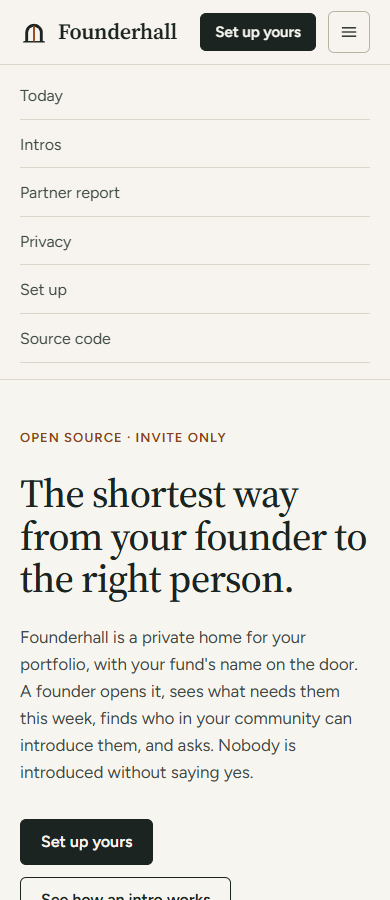
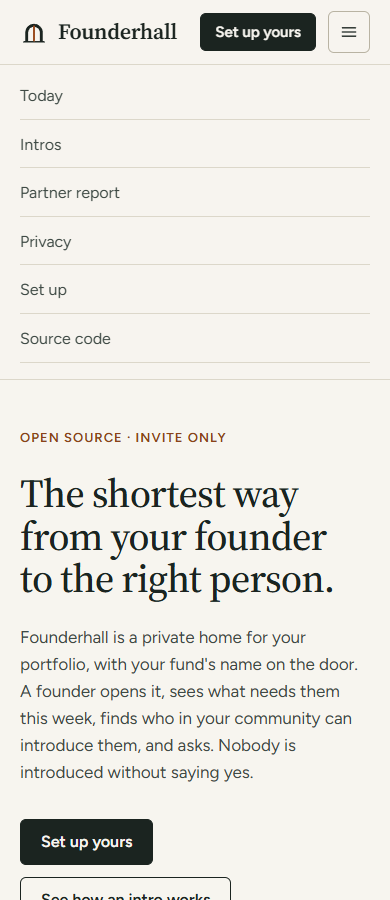
Site: match the app's own wording, fix 320 px and print
Report sketch uses the app's rows; Today, intro email, stop-all, weekly
email and credit claims now say exactly what the app does. Header fits at
320 px; print hides buttons and opens every answer.

Changed region(s): [[0.0615, 0.6222, 0.8308, 0.6844], [0.8615, 0.5911, 0.9538, 0.6222]]

diff --git a/site/index.html b/site/index.html
@@ -77,7 +77,7 @@
         <div class="mock-bar"><span class="fund-tile">N</span><span class="mock-fund">Northwind Founders</span></div>
         <div>
           <p class="mock-title">Good to see you, Sam.</p>
-          <p class="mock-sub">Two things need you this week.</p>
+          <p class="mock-sub">Here's what needs you this week.</p>
         </div>
         <div class="mock-group">
           <h4>Asks you could help with</h4>
@@ -85,7 +85,7 @@
         </div>
         <div class="mock-group">
           <h4>Waiting on you</h4>
-          <p class="mock-row"><span class="avatar">JB</span><span>Jonas Berg asked you for an intro to a hospital buyer you know.<small>Read the note, then say yes or pass.</small></span><span class="mock-action">Open</span></p>
+          <p class="mock-row"><span class="avatar">JB</span><span>Jonas Berg asked you for an intro to a hospital buyer you know.<small>Read the note, then say yes or pass.</small></span><span class="mock-action">Review Jonas's intro request</span></p>
         </div>
         <div class="mock-group">
           <h4>New this week</h4>
@@ -106,7 +106,7 @@
     </div>
     <ul class="rule-list">
       <li><h3>Invite only</h3><p>Only people you invite get in. Each link is personal, works once and lasts 14 days. Invite one person, or many from a pasted list or a CSV.</p></li>
-      <li><h3>Search the shared networks</h3><p>A founder searches their own network and the ones other members share. Community members come first, with Village's own words for how each one knows the person.</p></li>
+      <li><h3>Search the shared networks</h3><p>A founder searches their own network and the ones other members share. Community members come first, with a plain-words reason for how each one knows the person.</p></li>
       <li><h3>One ask reaches the people who can help</h3><p>When a founder posts an ask, the members on a path to the person it names, and up to 5 whose "can help with" matches, each get one email. They can offer an intro or answer.</p></li>
       <li><h3>A directory that fills itself in</h3><p>Filter members by stage, sector, cohort and how recently their card was updated. Cards can fill in from public work profiles once you record what allows it; a member's own words always win.</p></li>
     </ul>
@@ -139,7 +139,7 @@
         </div>
       </div>
       <ul class="rule-list">
-        <li><h3>A weekly email, not a firehose</h3><p>One email a week with what needs them, on the day and hour you choose. A founder with nothing to answer gets nothing. Each item has a button, and with reply set up they can answer by replying.</p></li>
+        <li><h3>A weekly email, not a firehose</h3><p>One email a week with what needs them, on the day and hour you choose. A founder with nothing to answer gets nothing. Asks and intro requests in it have buttons, and with reply set up they can answer by replying.</p></li>
         <li><h3>Sign in from the email</h3><p>With email on, a founder asks for a sign-in link: one button, one use, 15 minutes. A password works too.</p></li>
         <li><h3>Notices they can turn off</h3><p>Intros, messages, asks and the weekly email each send their own notices, each with one-click unsubscribe and a switch on the member's card.</p></li>
         <li><h3>Made for phones too</h3><p>On a small screen the app swaps its sidebar for a tab bar at the bottom.</p></li>
@@ -159,7 +159,7 @@
     <ol class="steps">
       <li><span class="step-number">1</span><h3>Sam asks, with a short note</h3><p>From the path to Alex, Sam asks Priya, the member who knows them. Alex hears nothing yet.</p></li>
       <li><span class="step-number">2</span><h3>Priya decides</h3><p>Yes, or pass. A pass is private, and a reason, if she gives one, stays with her.</p></li>
-      <li><span class="step-number">3</span><h3>Alex decides</h3><p>Priya forwards a private link, or the app emails it once. One page, no account: yes, no thanks, or stop all intro requests.</p></li>
+      <li><span class="step-number">3</span><h3>Alex decides</h3><p>Priya forwards a private link, or has the app email it. One page, no account: yes, no thanks, or stop all intro requests.</p></li>
       <li><span class="step-number">4</span><h3>One message joins them</h3><p>The ask closes as introduced. Two weeks later Sam is asked whether it helped.</p></li>
     </ol>
     <p class="yes-line"><svg viewBox="0 0 24 24" fill="none" stroke="currentColor" stroke-width="1.8" stroke-linecap="round" stroke-linejoin="round" aria-hidden="true"><path d="M5 12.5l4.5 4.5L19 7.5"/></svg>Nobody is introduced without saying yes.</p>
@@ -170,7 +170,7 @@
         <li><b>Nobody gets chased forever.</b> An ask nobody answers closes by itself after 14 days. If the app emailed Alex the link, one reminder goes 4 days later, and that's the only one.</li>
         <li><b>The giving side is protected.</b> Each founder has a weekly allowance of asks, 5 by default, and a connector gets at most 10 intro asks a week. A declined ask gives its place back.</li>
         <li><b>Alex's yes can't be faked by a link preview.</b> Opening the page changes nothing; only a button press answers it. The link works once and closes with the ask.</li>
-        <li><b>Stop means stop.</b> "Stop all intro requests" closes every open ask for Alex and holds back future ones.</li>
+        <li><b>Stop means stop.</b> "Stop all intro requests" closes the asks waiting on Alex's answer, and holds back new ones.</li>
       </ul>
       <figure>
         <div class="sheet consent" aria-hidden="true">
@@ -200,39 +200,45 @@
         <p class="lede">The asks your founders make become a report your partners can read: asked, each side's yes, introduced, declined, expired, and whether it helped.</p>
       </div>
       <ul class="rule-list">
-        <li><h3>Nothing to fill in</h3><p>Every step of every intro is counted as it happens. Pick this quarter so far, last quarter, or since launch.</p></li>
-        <li><h3>The no's are shown too</h3><p>Declines and expiries sit beside the yeses, and expiries are split by who never answered. A count that only goes up teaches the wrong habits.</p></li>
+        <li><h3>Nothing to fill in</h3><p>Every step of every intro is counted as it happens. This quarter so far, last quarter and since launch sit side by side.</p></li>
+        <li><h3>The no's are shown too</h3><p>Declines, expiries and withdrawals sit beside the yeses, each split by who said no or never answered. A count that only goes up teaches the wrong habits.</p></li>
         <li><h3>Counts, not gossip</h3><p>Admins see totals, never who asked whom. A connector is named only if they turned on "Credit me in reports".</p></li>
         <li><h3>Print it, download it, send it</h3><p>Print the page, download a CSV, or email it to up to 20 partners. Sending your first report is the last step of setup.</p></li>
       </ul>
     </div>
     <figure>
       <div class="sheet report" aria-hidden="true">
-        <div class="mock-bar"><span class="fund-tile">N</span><span class="mock-fund">Partner report · this quarter so far</span></div>
-        <p class="report-summary">42 intros asked, 24 made, 9 declined.</p>
+        <div class="mock-bar"><span class="fund-tile">N</span><span class="mock-fund">Northwind Founders</span></div>
+        <p class="report-summary">Partner report</p>
         <table class="report-table">
+          <thead><tr><th>Intros</th><td>This quarter so far</td></tr></thead>
           <tbody>
-            <tr><th>Asked</th><td>42</td></tr>
+            <tr><th>Asked for</th><td>42</td></tr>
             <tr><th>Connector said yes</th><td>31</td></tr>
             <tr><th>Person asked for said yes</th><td>26</td></tr>
             <tr><th>Introduced</th><td>24</td></tr>
-            <tr><th>Declined<small>A normal, respected answer</small></th><td>9</td></tr>
-            <tr><th>Expired<small>Split by who never answered</small></th><td>6</td></tr>
-            <tr><th>Still open</th><td>3</td></tr>
-            <tr><th>Said it helped<small>17 of the 22 who answered</small></th><td>77%</td></tr>
+            <tr><th>Declined by the connector</th><td>5</td></tr>
+            <tr><th>Declined by the person asked for</th><td>4</td></tr>
+            <tr><th>Expired, connector never answered<small>Not a decline.</small></th><td>3</td></tr>
+            <tr><th>Expired, person asked for never answered<small>Not a decline.</small></th><td>2</td></tr>
+            <tr><th>Expired before the connector made the intro<small>Not a decline.</small></th><td>1</td></tr>
+            <tr><th>Withdrawn by the member who asked</th><td>1</td></tr>
+            <tr><th>Still open</th><td>2</td></tr>
+            <tr><th>Said it helped<small>Of the members who answered yes or no.</small></th><td>77%</td></tr>
           </tbody>
         </table>
         <table class="report-table">
+          <thead><tr><th>Top connectors</th><td></td></tr></thead>
           <tbody>
-            <tr><th>Top connectors<small>Only members who asked to be credited</small></th><td></td></tr>
             <tr><th>Priya Shah</th><td>6</td></tr>
             <tr><th>Daniel Okafor</th><td>4</td></tr>
-            <tr><th>Everyone else</th><td>14</td></tr>
+            <tr><th>Other connectors, not named</th><td>9</td></tr>
+            <tr><th>Intros made by them</th><td>14</td></tr>
           </tbody>
         </table>
         <div class="report-actions"><span>Print</span><span>Download CSV</span><span>Send to partners</span></div>
       </div>
-      <figcaption class="caption">Made-up numbers for a made-up fund.</figcaption>
+      <figcaption class="caption">A sketch with made-up numbers. The app shows this quarter, last quarter and since launch side by side.</figcaption>
     </figure>
   </div>
 </section>
@@ -245,7 +251,7 @@
     </div>
     <ul class="trust">
       <li><h3>The community's data is yours</h3><p>Profiles, asks, intros and messages sit in your own Postgres database, on your host's account.</p></li>
-      <li><h3>Network search runs on Village</h3><p>A member who shares gives Village their email address and connects their network there. Your Village secret key is sealed in your database with your setup token.</p></li>
+      <li><h3>Network search runs on Village</h3><p>A member who shares gives Village their email address and connects their network there. With a setup token set, your Village secret key is sealed in your database.</p></li>
       <li><h3>Nobody is contacted without a yes</h3><p>The member who knows them decides first. The person being introduced hears nothing until then, and isn't introduced until they say yes too.</p></li>
       <li><h3>Admins can't read direct messages</h3><p>Not in the app: no page, route or role reaches them. An admin sees a copy of a message only when the person who received it reports it.</p></li>
       <li class="is-limit"><h3>Not end-to-end encrypted</h3><p>Messages and intro notes are stored as plain text. Anyone with access to your database can read them, backups included. Tell your members who runs it.</p></li>
@@ -303,11 +309,11 @@
       <div class="sheet checklist" aria-hidden="true">
         <p class="eyebrow">Sample: your checklist in the app</p>
         <ul>
-          <li class="is-done"><span class="check-box"><svg viewBox="0 0 24 24" fill="none" stroke="currentColor" stroke-width="2.4" stroke-linecap="round" stroke-linejoin="round"><path d="M5 12.5l4.5 4.5L19 7.5"/></svg></span><span><b>Brand your community</b><small>Your name, logo and colour.</small></span></li>
+          <li class="is-done"><span class="check-box"><svg viewBox="0 0 24 24" fill="none" stroke="currentColor" stroke-width="2.4" stroke-linecap="round" stroke-linejoin="round"><path d="M5 12.5l4.5 4.5L19 7.5"/></svg></span><span><b>Brand your community</b><small>Add your name, logo and color. Everyone sees them.</small></span></li>
           <li><span class="check-box">2</span><span><b>Add your Village keys</b><small>They connect this community to Village.</small></span></li>
           <li><span class="check-box">3</span><span><b>Create the group</b><small>This turns on network search for everyone who joins.</small></span></li>
-          <li><span class="check-box">4</span><span><b>Invite your first members</b><small>A personal link for each person you bring in.</small></span></li>
-          <li><span class="check-box">5</span><span><b>Your first partner report</b><small>Send it, or mark it shared another way.</small></span></li>
+          <li><span class="check-box">4</span><span><b>Invite your first members</b><small>Create a personal invite link for each person you want to bring in.</small></span></li>
+          <li><span class="check-box">5</span><span><b>Your first partner report</b><small>Send your partners this community's numbers: intros made, what came of them and who's active. Counts only.</small></span></li>
         </ul>
       </div>
     </div>
@@ -348,7 +354,7 @@
     <ul class="columns">
       <li><h3>The software</h3><p>Open source under AGPL-3.0. No seat fee and no contract.</p></li>
       <li><h3>Hosting and database</h3><p>Your host bills you, not us. Check their current prices before you pick one.</p></li>
-      <li><h3>Network search and intros</h3><p>They spend your Village app's credits. Members, messages and the feed spend none.</p></li>
+      <li><h3>Network search and intros</h3><p>They spend your Village app's credits, as does filling in cards from public profiles. Members, messages and the feed spend none.</p></li>
     </ul>
     <ul class="columns columns-follow">
       <li><h3>A monthly cap</h3><p>Lookups stop at the community's monthly credit cap, and every admin gets an email at 80% and at 100%.</p></li>
@@ -368,7 +374,7 @@
     <ul class="rule-list">
       <li><h3>The code is yours to keep</h3><p>It's open source under AGPL-3.0, and it runs on your host's account.</p></li>
       <li><h3>You choose when to update</h3><p>Updates aren't automatic. We fix the latest code, but we can't patch your copy for you.</p></li>
-      <li><h3>Village is optional</h3><p>Only network search and intros need it. Members, messages and asks run without it.</p></li>
+      <li><h3>Village is optional</h3><p>Only network search, intros and card fill-in need it. Members, messages and asks run without it.</p></li>
       <li><h3>Help comes through GitHub</h3><p>Open an issue there. <a class="text-link" href="https://github.com/VillageHQ/community">See the code</a> · <a class="text-link" href="https://github.com/VillageHQ/community/blob/main/LICENSE">Read the licence</a></p></li>
     </ul>
   </div>
@@ -379,7 +385,7 @@
     <h2 id="questions-title" class="faq-title">Questions platform leads ask</h2>
     <div class="faq">
       <details><summary>My founders won't open another platform.</summary><p>They don't have to live in it. The weekly email carries what needs them, and they can answer from it. Intros, messages and asks send their own notices. The first visit is one invite link, a name and a password.</p></details>
-      <details><summary>Emails in my name, to people I know?</summary><p>Nobody outside the community hears about an intro until the member who knows them says yes, and the link goes from that member or, once, from the app. Intro, message, ask and weekly emails have one-click unsubscribe.</p></details>
+      <details><summary>Emails in my name, to people I know?</summary><p>Nobody outside the community hears about an intro until the member who knows them says yes, and the link goes from that member or, at their request, from the app. Intro, message, ask and weekly emails have one-click unsubscribe.</p></details>
       <details><summary>Can admins read our direct messages?</summary><p>Not in the app. Anyone with access to your database can, because messages aren't end-to-end encrypted. We say so plainly.</p></details>
       <details><summary>Can it run on our own domain?</summary><p>Yes. Your host lets you attach your own domain. The app reads its public address from a setting called <code>APP_URL</code>.</p></details>
       <details><summary>What happens when I remove someone?</summary><p>They're signed out, can't sign back in and leave the directory. You choose whether their posts stay or go. If they're in the Village group, we ask Village to take them out and tell you what happened.</p></details>

diff --git a/site/assets/site.css b/site/assets/site.css
@@ -513,10 +513,12 @@ h4 {
 
 .mock-action {
   flex: none;
+  max-width: 9.5em;
   font-size: 14px;
   font-weight: 600;
+  line-height: 1.35;
+  text-align: right;
   color: var(--accent-ink);
-  white-space: nowrap;
 }
 
 .avatar {
@@ -1253,9 +1255,27 @@ h4 {
 }
 
 @media print {
-  .site-header,
-  .skip-link {
+  .site-header {
     position: static;
+  }
+
+  .skip-link,
+  .menu-toggle,
+  .site-bar .button,
+  .hero-actions,
+  .deploy .button,
+  .deploy-command .button {
+    display: none !important;
+  }
+
+  .faq details::details-content {
+    content-visibility: visible;
+    display: block;
+  }
+
+  .section,
+  .closing {
+    padding-block: 32px;
   }
 }
 
@@ -1282,5 +1302,41 @@ h4 {
 @media (max-width: 860px) {
   .site-bar {
     gap: 12px;
+  }
+}
+
+h1,
+h2 {
+  text-wrap: balance;
+}
+
+.switches > li > p {
+  flex: 1;
+}
+
+.switch-state {
+  min-width: 3.4em;
+  text-align: center;
+}
+
+@media (max-width: 370px) {
+  :root {
+    --gutter: 16px;
+  }
+
+  .site-bar .button {
+    display: none;
+  }
+}
+
+@media (max-width: 480px) {
+  .mock-row {
+    flex-wrap: wrap;
+  }
+
+  .mock-action {
+    max-width: none;
+    margin-left: 44px;
+    text-align: left;
   }
 }

diff --git a/site/assets/site.js b/site/assets/site.js
@@ -46,9 +46,20 @@ function setUpCopy() {
     }
     resetTimer = setTimeout(() => {
       label.textContent = COPY_LABEL;
+      status.textContent = "";
     }, COPIED_LABEL_RESET_MS);
+  });
+}
+
+// Printed pages show every answer, since nobody can click to open one on paper.
+function setUpPrint() {
+  window.addEventListener("beforeprint", () => {
+    document.querySelectorAll(".faq details").forEach((details) => {
+      details.open = true;
+    });
   });
 }
 
 setUpMenu();
 setUpCopy();
+setUpPrint();
